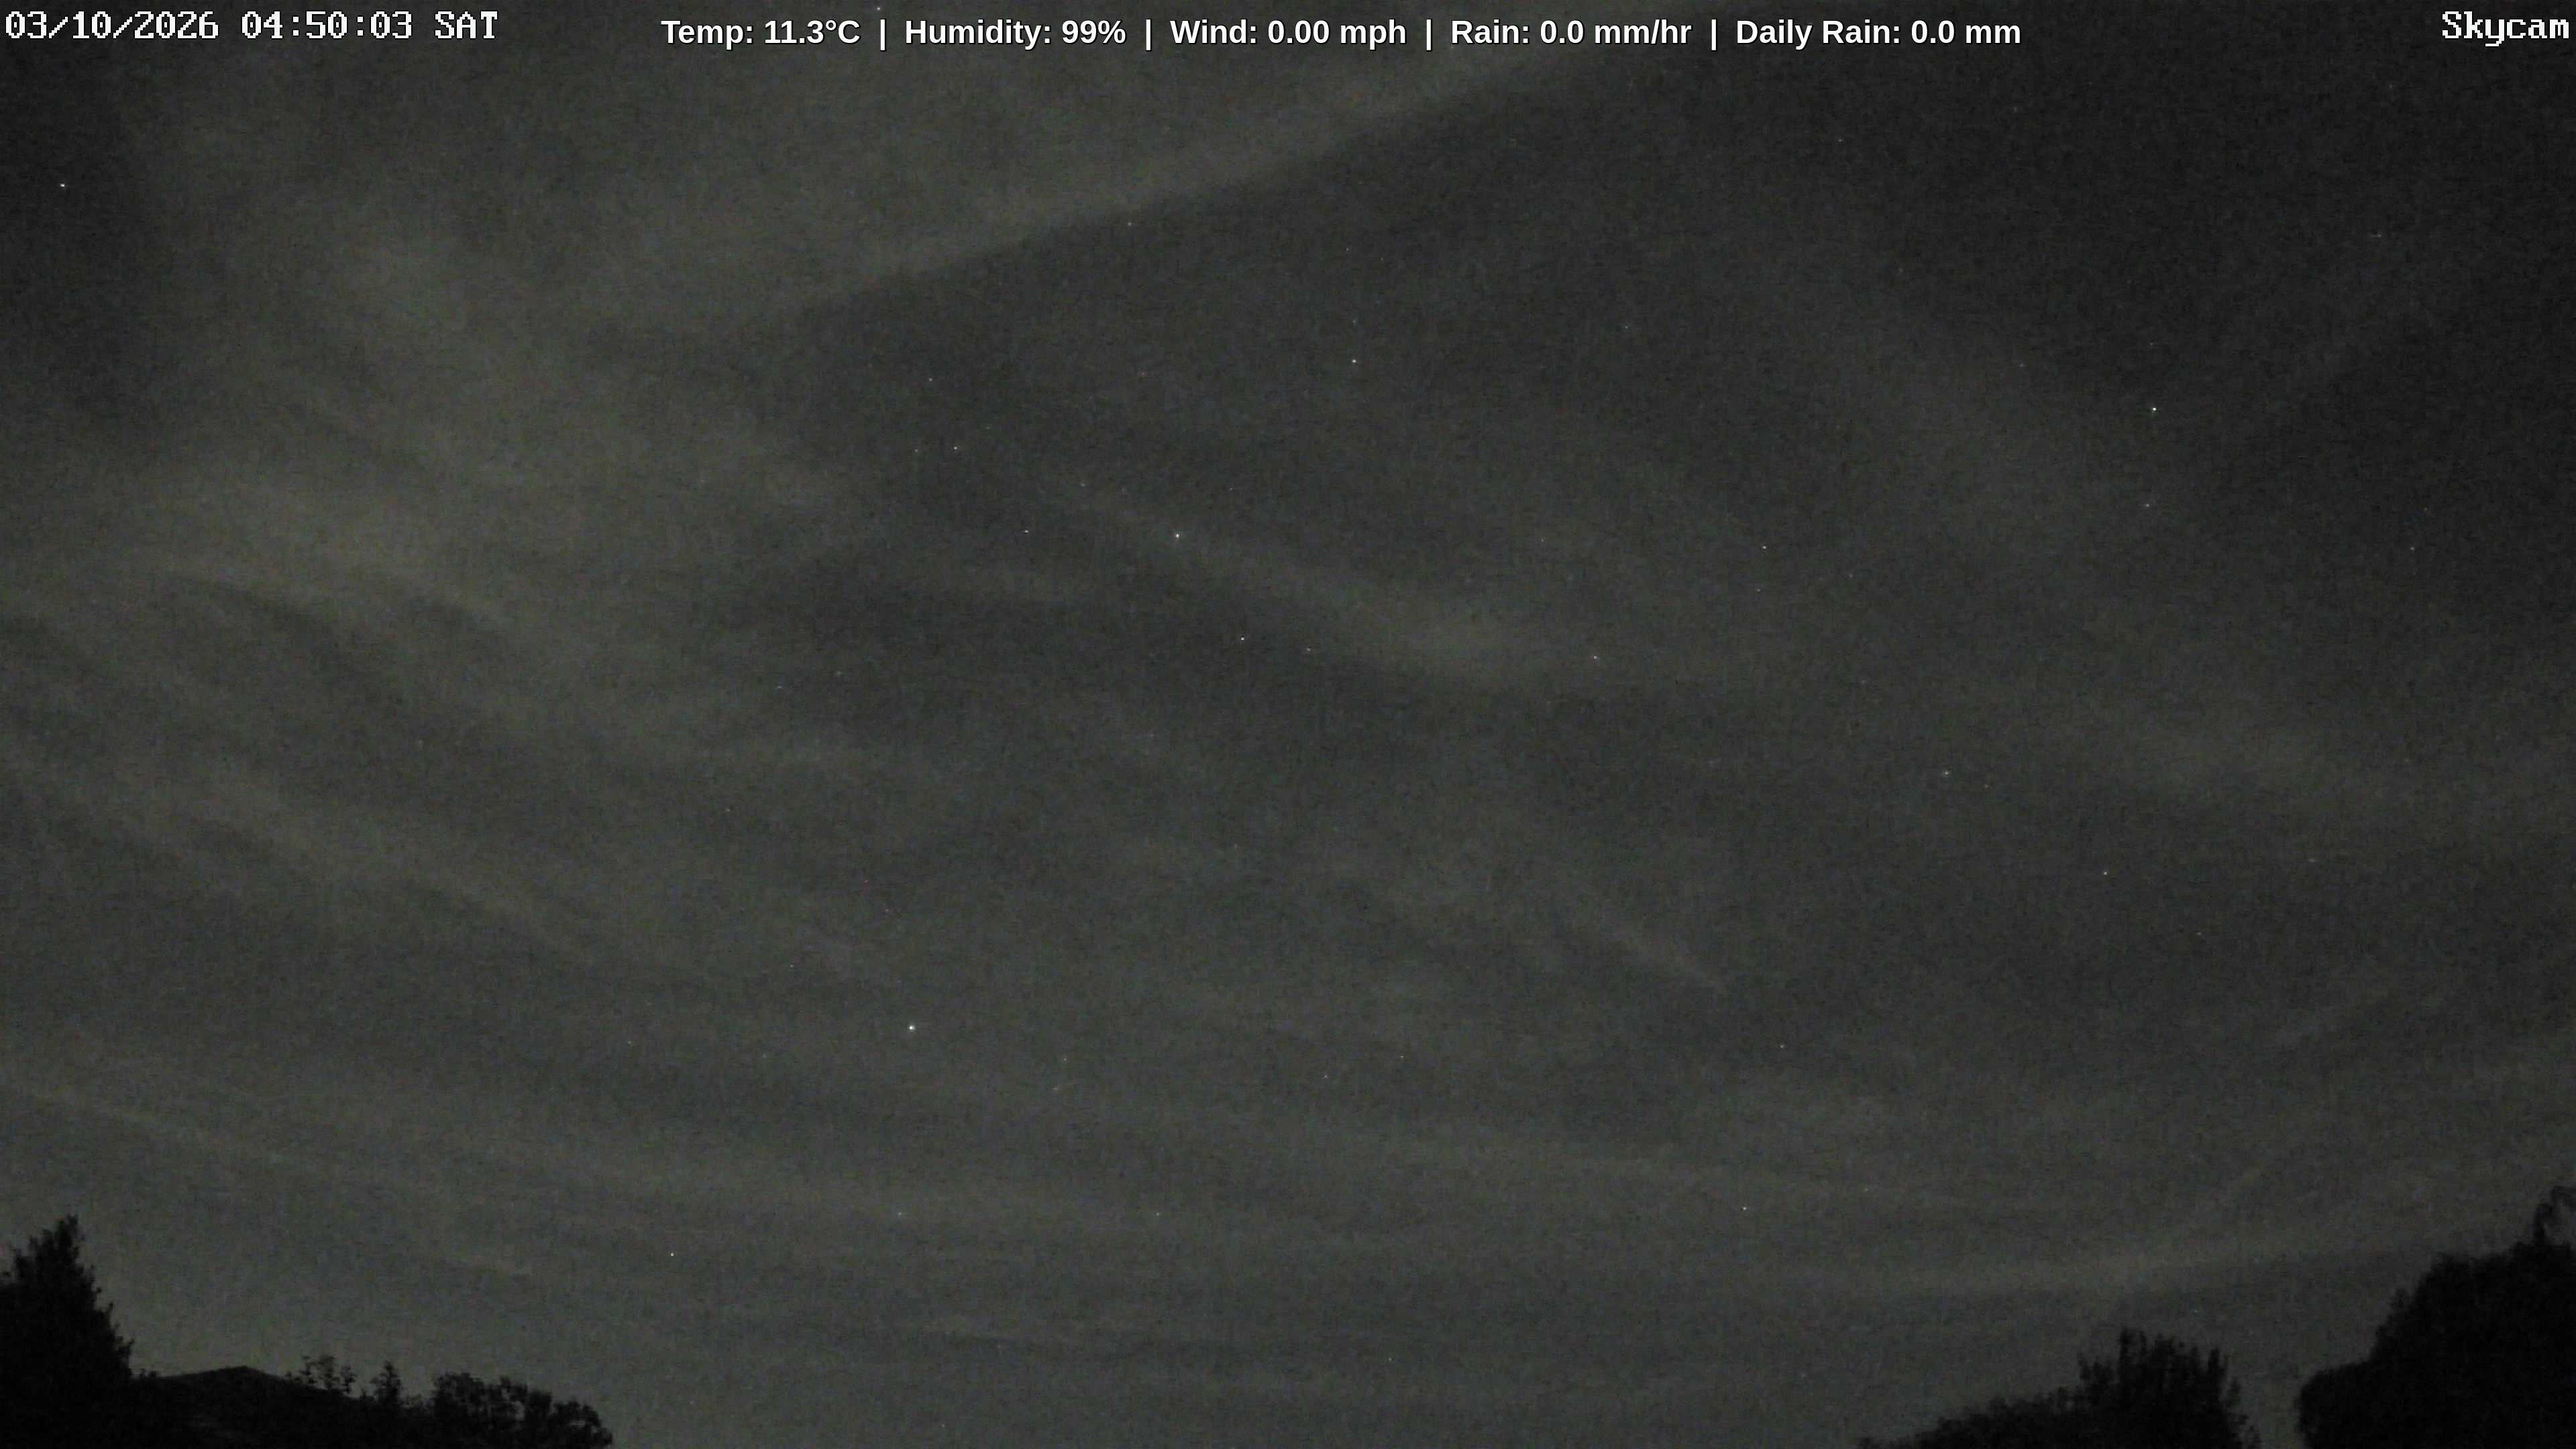
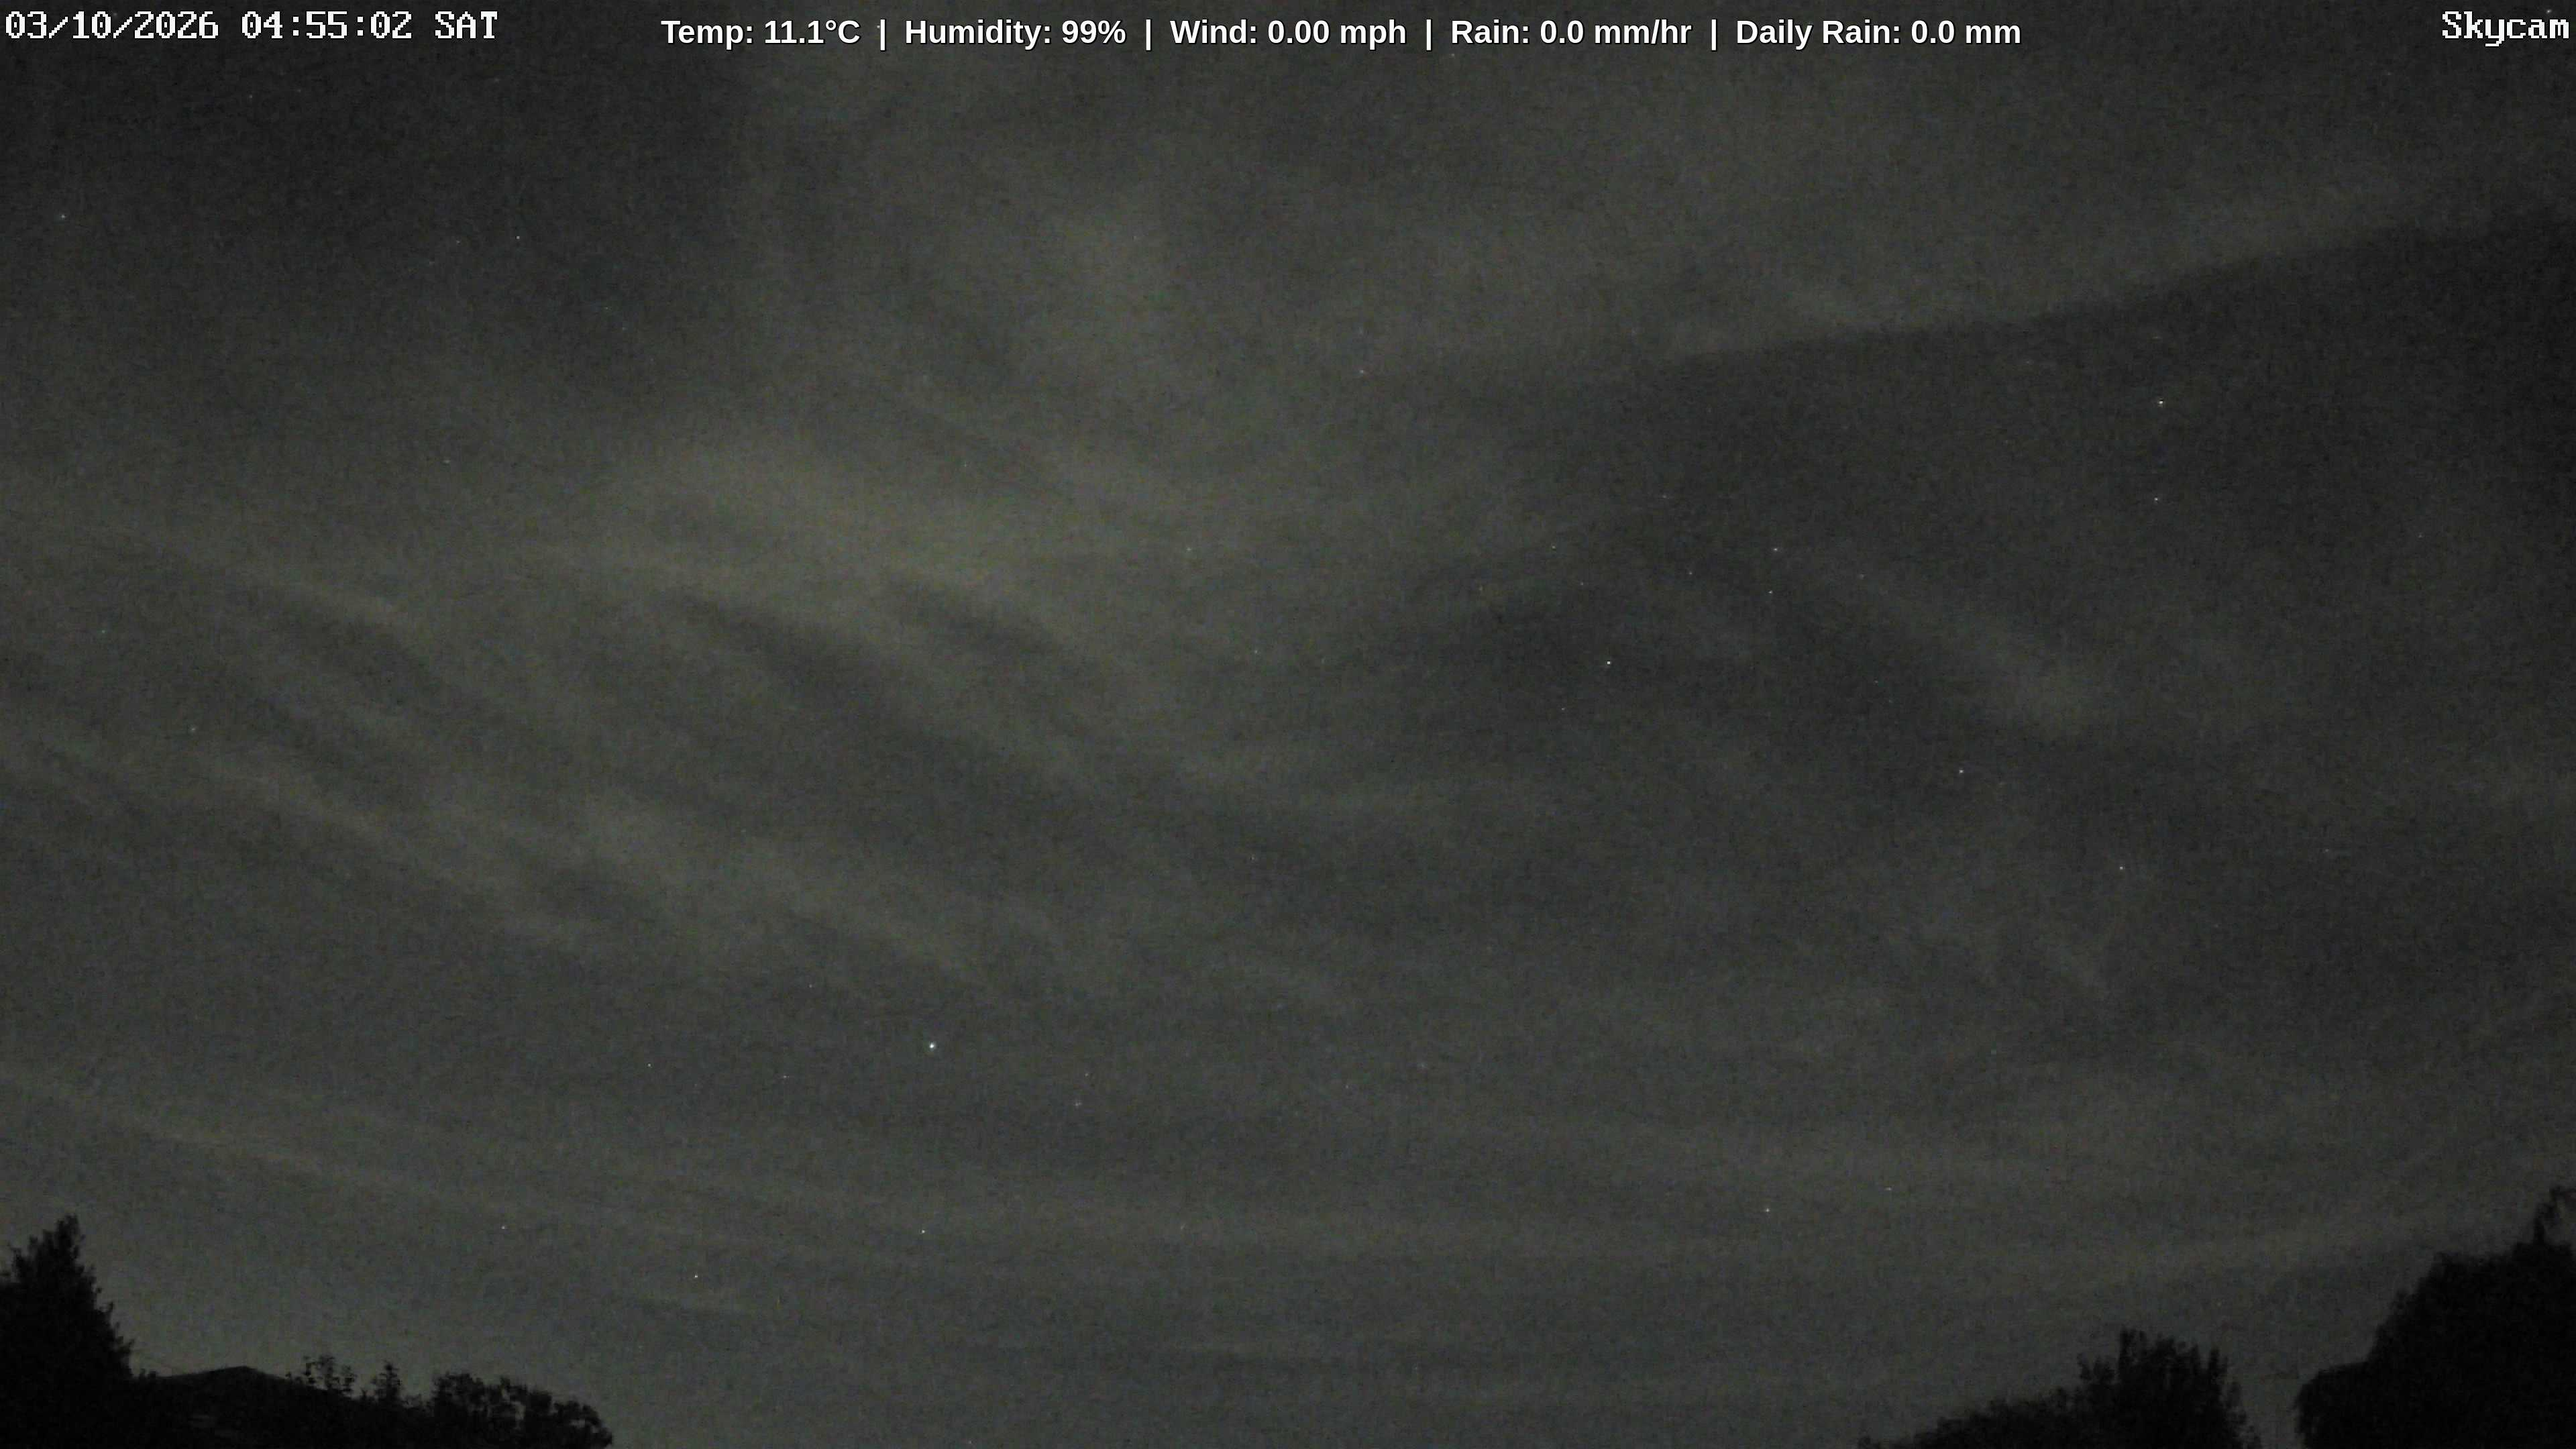
Update weather cam image with synchronized dual-layer weather metrics

diff --git a/index.html b/index.html
@@ -32,7 +32,7 @@
 </head>
 <body>
     <img id="weathercam" alt="Live Weather Snapshot">
-    <div class="banner">Temp: 11.3°C  |  Humidity: 99%  |  Wind: 0.00 mph  |  Rain: 0.0 mm/hr  |  Daily Rain: 0.0 mm</div>
+    <div class="banner">Temp: 11.1°C  |  Humidity: 99%  |  Wind: 0.00 mph  |  Rain: 0.0 mm/hr  |  Daily Rain: 0.0 mm</div>
 
     <script>
         // Shatter mobile cache engines by appending a live unique runtime timestamp 
